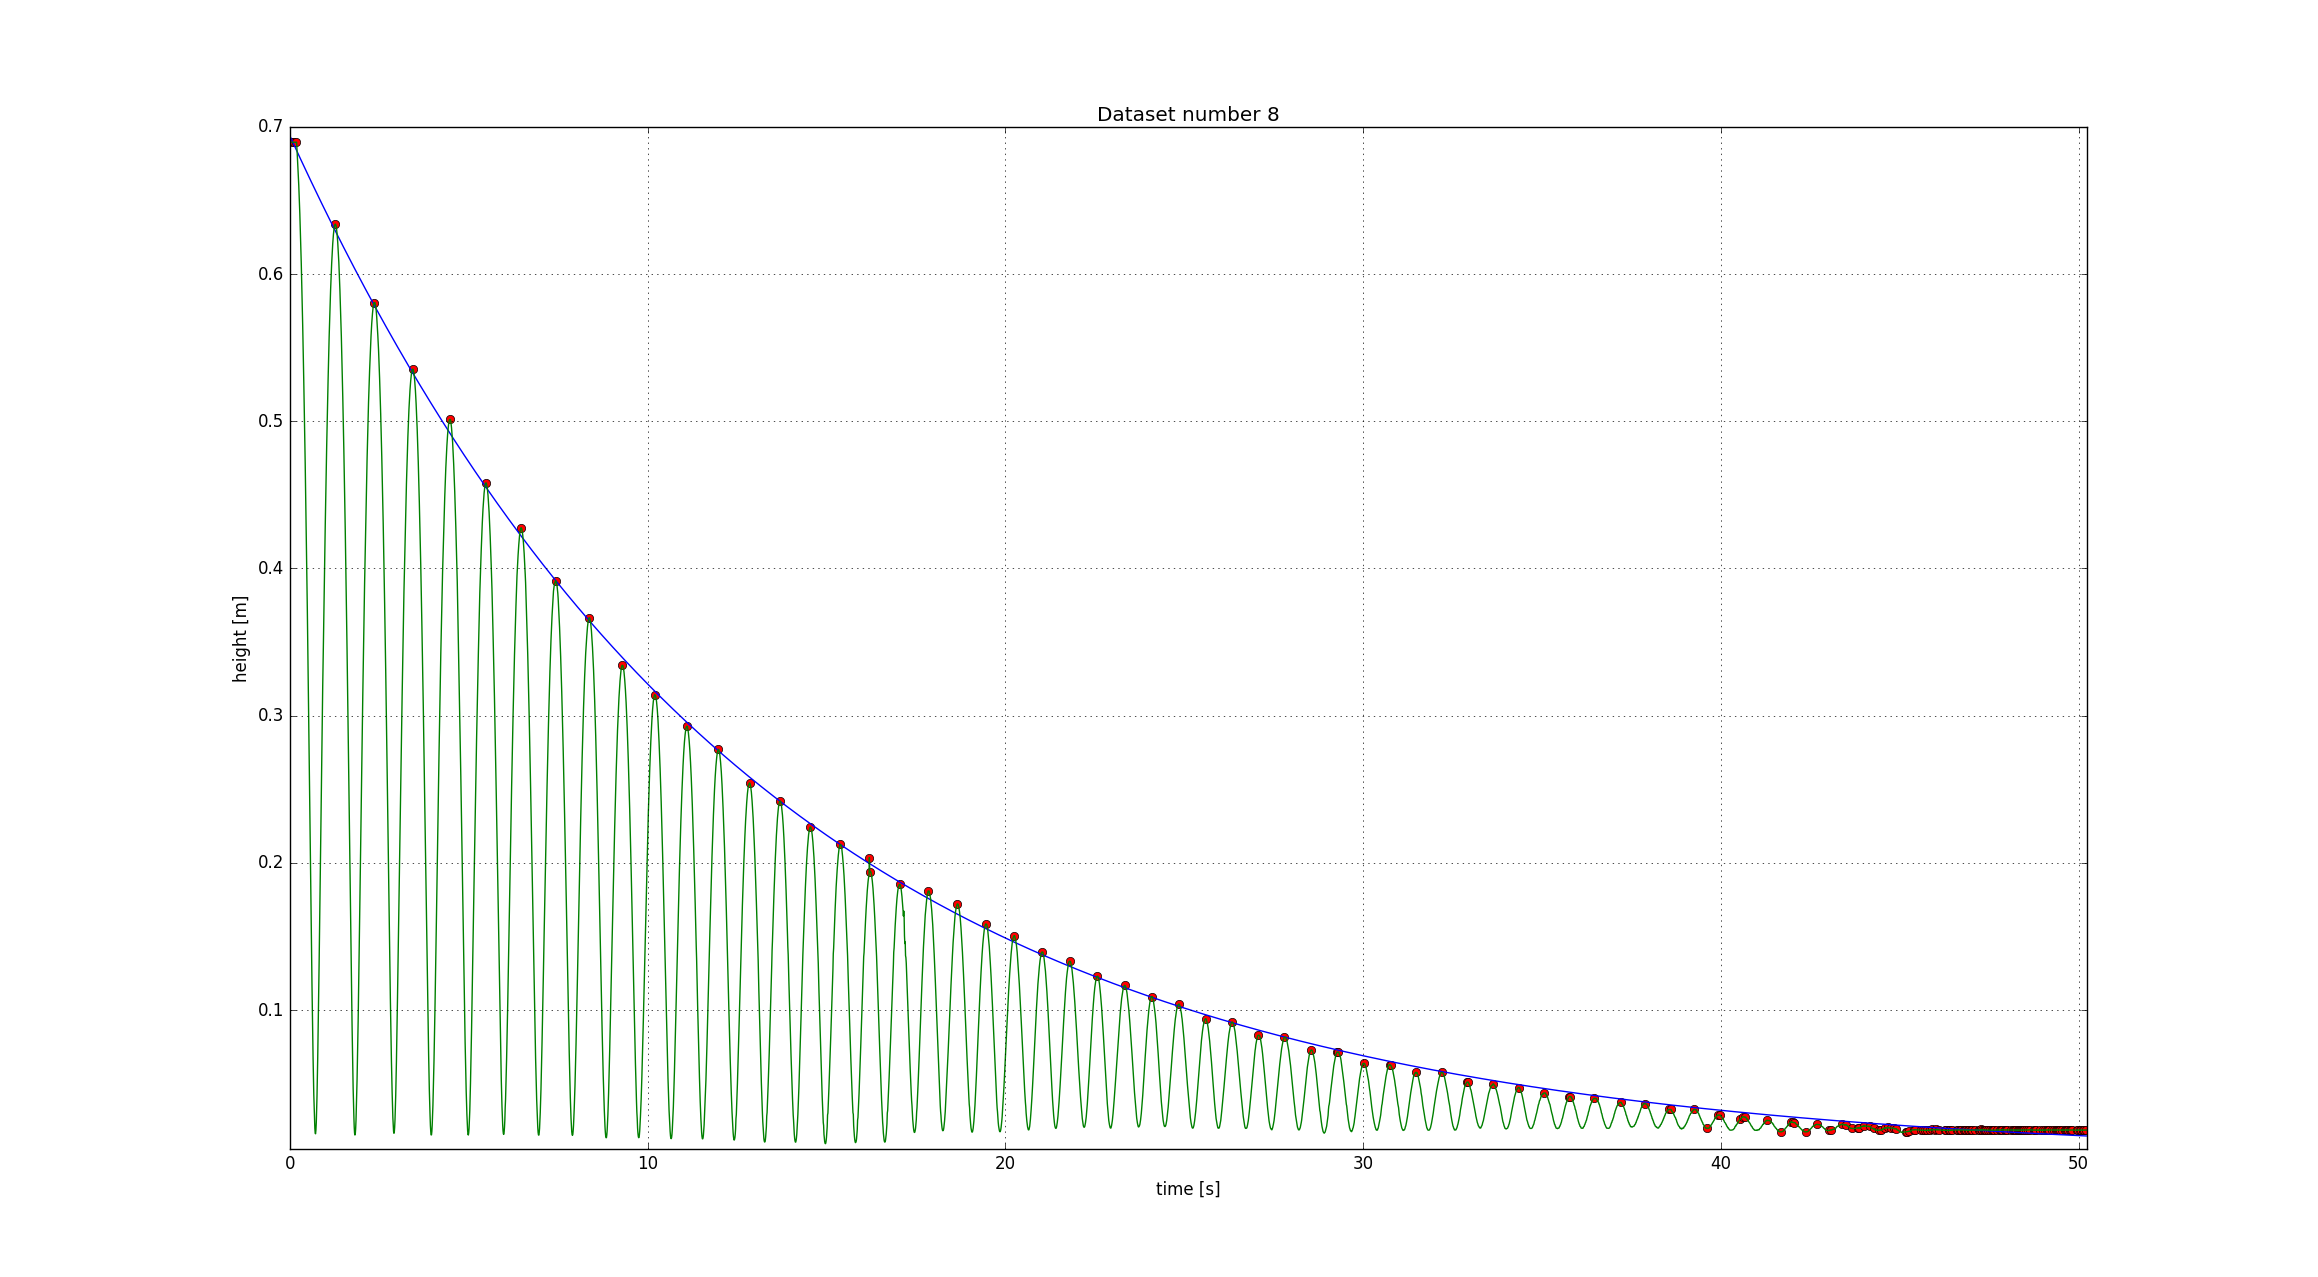
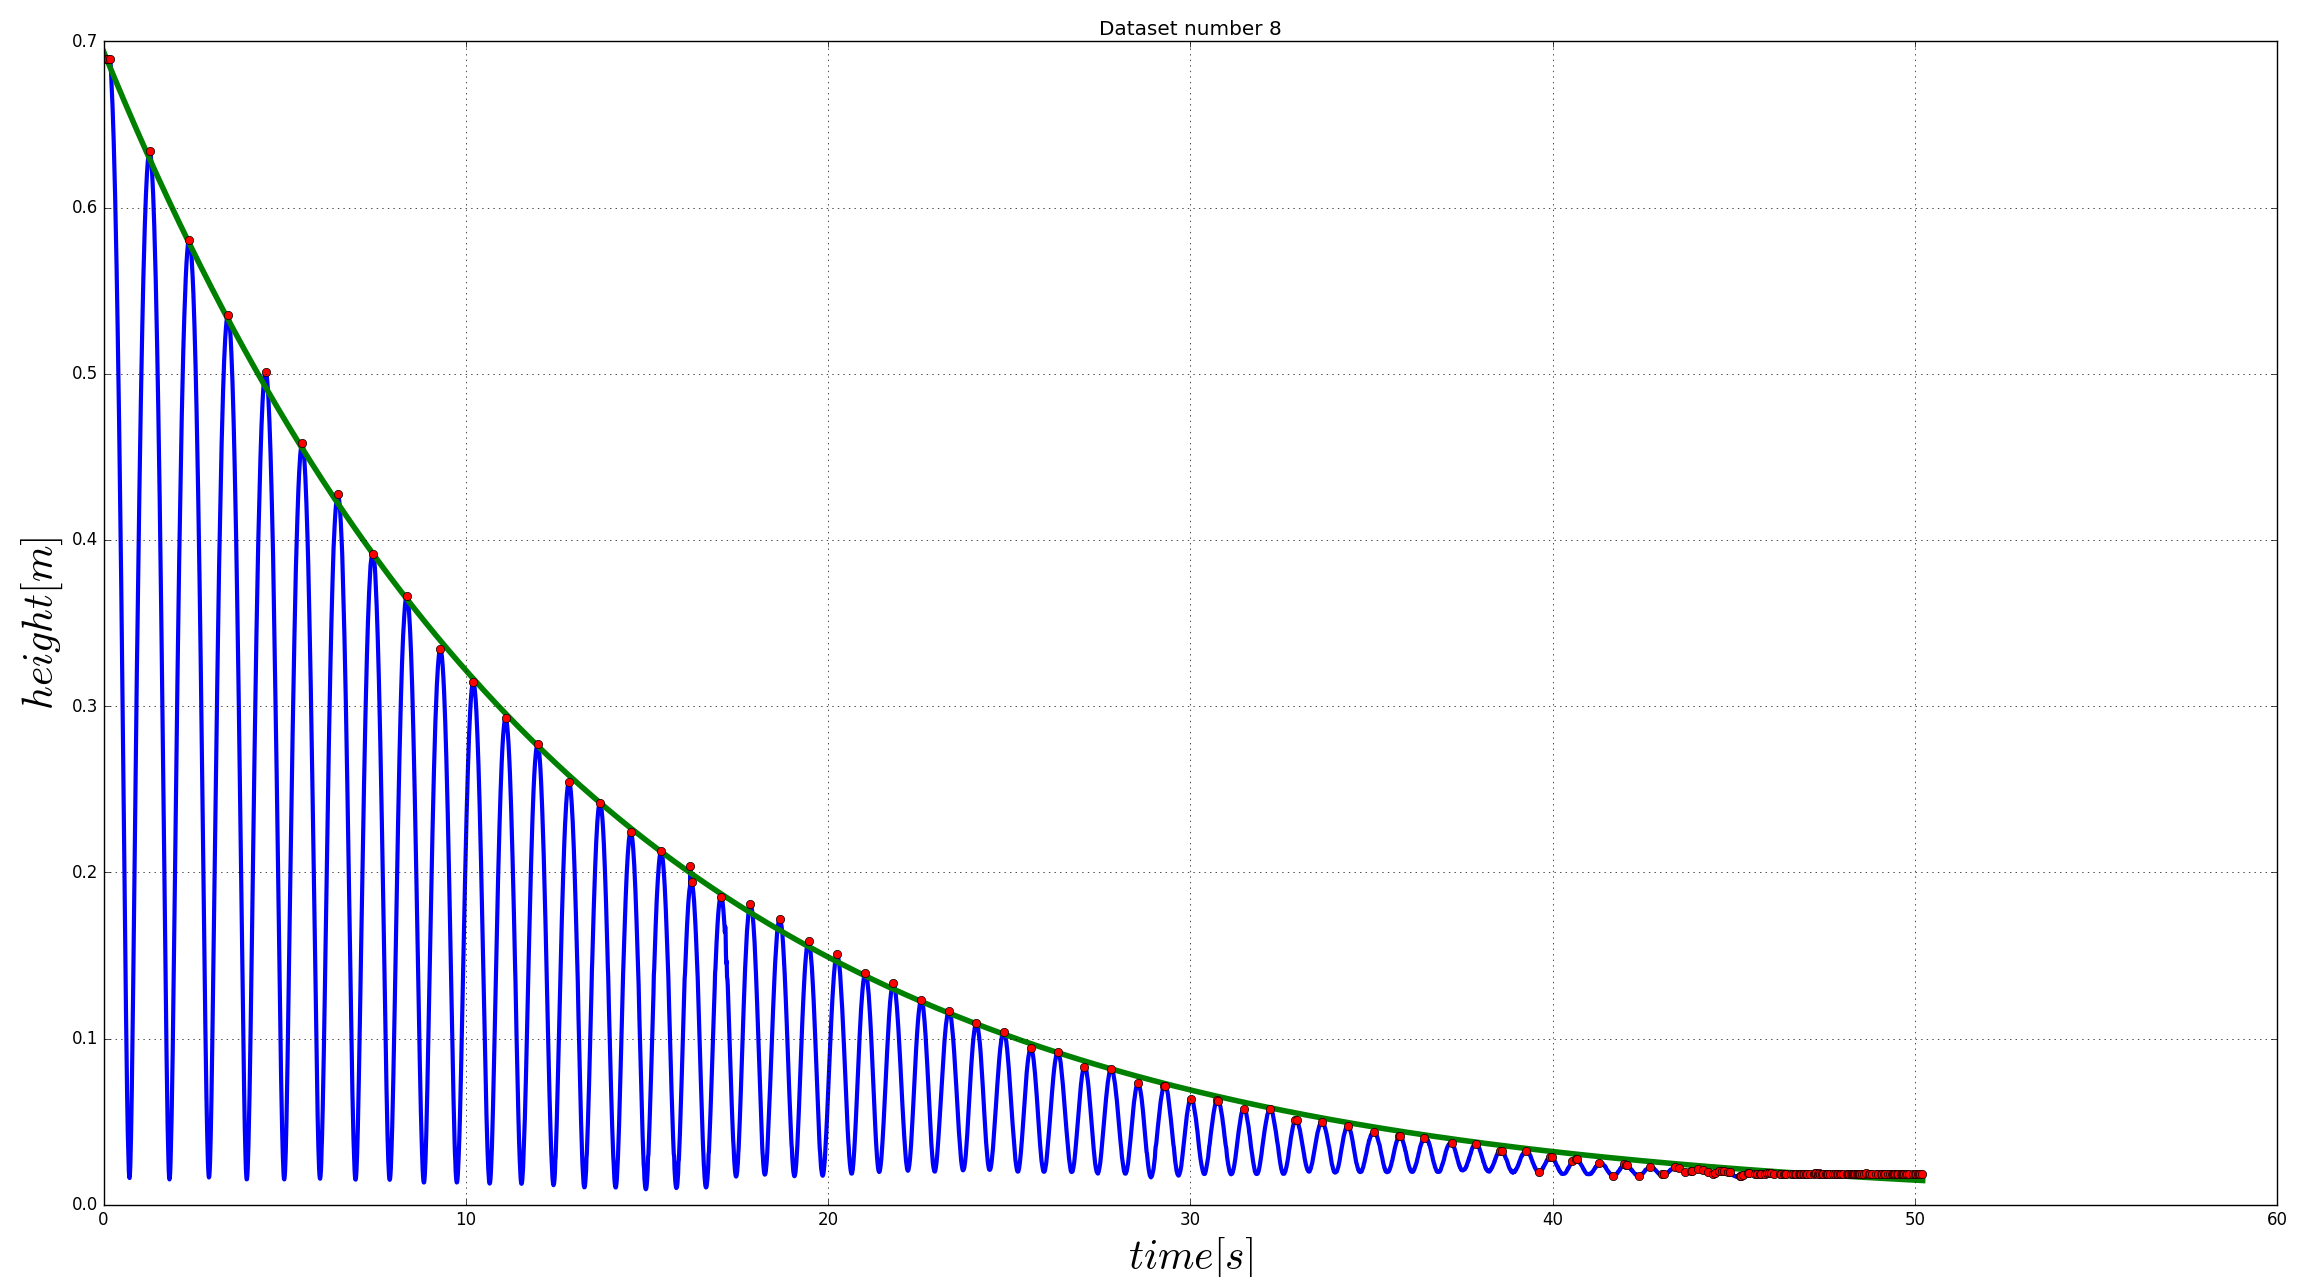
Adds numerical analysis in the project

diff --git a/numerical_analysis.py b/numerical_analysis.py
@@ -7,18 +7,15 @@ numerically and plot the results for comparison with the real-world results
 import matplotlib.pyplot as plt
 import numpy as np
 
-"""
-    Interpolates the track and returns the coefficients in decending power
-"""
-def iptrack(filename):
-    data = np.loadtxt(filename, skiprows=2)
-    return np.polyfit(data[:1,], data[:,2],15)
+filename = "data/track_pol"
+data = np.loadtxt(filename, skiprows=2)
+data = data.transpose()
+p = np.polyfit(data[1], data[2], 15)
+#plt.plot(data[1], np.polyval(p, data[1]))
+#plt.show()
 
-"""
-    When passed an interpolation and an x value it returns a list of useful 
-    values at the point x.
-"""
-def trvalues(p,x):
+def trvalues(x):
+    global p
     y       = np.polyval(p,x)
     dp      = np.polyder(p)
     dydx    = np.polyval(dp,x)
@@ -27,49 +24,90 @@ def trvalues(p,x):
     alpha   = np.arctan(-dydx)
     R       = (1.0 + dydx**2)**1.2 / d2ydx2
     return [y, dydx, d2ydx2, alpha, R]
+def angle(x):
+    dp = np.polyder(p)
+    alph = np.arctan(-1 * np.polyval(dp, x))
+    return alph
 
-def a(x, filename):
-    p = iptrack(filename)
-
-    return [a_x, a_y]
+def a(x):
+    #Baneaksellerasjon
+    g = 9.81
+    [y, dydx, d2ydx2, alpha, R] = trvalues(x)
+    c = 1 + 2/5
+    print "Alpha =", alpha, "angle =", angle(x), "x =", x 
+    a = g * np.sin(alpha) / c
+    return [a, alpha]
 
 
 def main():
-    N = 10000
-    h = 0.0001
+    N = 20000
+    h = 0.001
+    k = 0.3
 
     t_0 = 0
-    x_0 = 0.7
+    y_0 = 0.7
+    x_0 = -0.6
+    test =  0
 
-    t = np.zeros(N+1)
-    x = np.zeros(N+1)
+    t   = np.zeros(N+1)
+    x   = np.zeros(N+1)
+    y   = np.zeros(N+1)
+    v   = np.zeros(N+1)
+    a_b = np.zeros(N+1)
     
     t[0] = t_0
+    y[0] = y_0
     x[0] = x_0
 
-    t_old = t_0
-    x_old = x_0
+    [a_b[0], alpha] = a(x_0) 
+
+    for n in range(N):
+        t[n+1] = t[n] + h
+        
+        #Calculate new speeds
+        v[n+1] = v[n] + h * a_b[n]
+
+        #Calculate new positions
+        x[n+1] = x[n] + h*(v[n] * np.cos(alpha))
+        y[n+1] = y[n] - h*(v[n] * np.sin(alpha))
+        
+        
+        #Calculate new acceleration
+        [a_b[n+1], alpha] = a(x[n+1])
+        a_b[n+1] -= v[n] * k
+
+
+        print "n =", n
 
     
-    for n in range(N):
-        #TODO: Add the correct formula here to solve the system
-        x_new = x_old + h*()
-        t[n+1] = t_old+h
-        x[n+1] = x_new
-
-        t_old += h
-        x_old = x_new
-
-    print r'x_N %f' % x_old
-
     plt.figure()
+    #plt.subplot(221)
+    plt.plot(t, y, linewidth=4.0)
+    plt.ylabel(r'$h(t)$', fontsize=26)
+    plt.xlabel(r'$t$', fontsize=26)
+    plt.grid()
+    """
+    plt.subplot(222)
     plt.plot(t, x)
-    plt.ylabel(r'$h(t)$')
+    plt.ylabel(r'$x(t)$')
     plt.xlabel(r'$t$')
     plt.grid()
+
+    plt.subplot(224)
+    plt.plot(t, v)
+    plt.ylabel(r'$v(t)$')
+    plt.xlabel(r'$t$')
+    plt.grid()
+
+    plt.subplot(223)
+    plt.plot(t, a_b)
+    plt.ylabel(r'$a_b(t)$')
+    plt.xlabel(r'$t$')
+    plt.grid()
+    """
     plt.show()
 
 
 
-if _name__ == '__main__':
+if __name__ == '__main__':
     main()

diff --git a/main.py b/main.py
@@ -124,10 +124,10 @@ def plotDataset(dataset_index):
     set_maxima  = maxima[dataset_index]
     set_pol     = evalPol(reg[dataset_index], data[dataset_index][0])
     raw_data    = data[dataset_index]
-    plt.plot(set_maxima[0], set_maxima[1], 'ro', set_pol[0], set_pol[1])
-    plt.plot(raw_data[0], raw_data[2])
-    plt.xlabel("time [s]")
-    plt.ylabel("height [m]")
+    plt.plot(raw_data[0], raw_data[2], linewidth=3.0)
+    plt.plot(set_pol[0], set_pol[1], set_maxima[0], set_maxima[1], 'ro', linewidth=4.0)
+    plt.xlabel("$time [s]$", fontsize=30)
+    plt.ylabel("$height [m]$", fontsize=30)
     plt.title(plot_title)
     plt.grid(True)
     plt.show()
@@ -140,11 +140,11 @@ def plotMeanRegression():
         mean_value += evalPol(reg[i], time)[1]
     
     plt.figure(3)
-    plt.plot(time, mean_value)
-    plt.xlabel('time[s]')
-    plt.ylabel('height[m]')
+    plt.plot(time, mean_value, linewidth=3.0)
+    plt.xlabel('$time[s]$', fontsize=24)
+    plt.ylabel('$height[m]$', fontsize=24)
     plt.grid(True)
-    plt.title("Mean regression plot")
+    #plt.title("Mean regression plot")
     plt.show()
 
 def main():
@@ -171,9 +171,8 @@ def main():
         print "A =", np.exp(i[1]),"a =",i[0]
     #plotAll()
     plotDataset(7)
-    #plotMeanRegression()
+    plotMeanRegression()
 
     return 0
 
-if __name__ == "__main__":
-    main()
+main()
